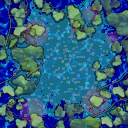
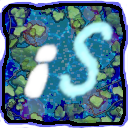
new up
"very brutal" menu

diff --git a/noname/index.html b/noname/index.html
@@ -6,34 +6,34 @@
 <style>
     body{
         background-image: url("Nopng.png");
-        color:rgb(0, 0, 0)
+        color:rgb(255, 255, 255)
         
     }
     .page{
-      background-color: #e2e2e2;
-      background-image: url("NININI.png");
+      
+     
             max-width: 720px;
          margin: 10 auto; /* Centers the container itself if needed */
-      border: 5px solid #b8a70f6e;
+      border: 10px solid #92340f;
       padding: 20px;
    }
    .page1{
-        background-color: #e2e2e2;
+       
             max-width: 400px;
-           background-image: url("NININI.png");
+         
             max-width: 720px;
          margin: 10 auto; /* Centers the container itself if needed */
-      border: 5px solid #b8a70f6e;
+      border: 10px solid #92340f;
             padding: 10px;
       
    }
     .page2{
-            background-color: #e2e2e2;
+            
             max-width: 400px;
-        background-image: url("NININI.png");
+      
             max-width: 720px;
          margin: 10 auto; /* Centers the container itself if needed */
-      border: 5px solid #b8a70f6e;
+      border: 10px solid #92340f;
             padding: 10px;
    }
 
@@ -55,6 +55,15 @@
         {
             color: #fdfdfd;
         }
+         menu {
+             
+            background-image: linear-gradient(rgba(255, 255, 255, 0.151), rgba(0, 0, 0, 0.425)),  url("lest.png");
+             border: 5px solid #92340f;
+          
+         }
+         li{
+              font-size: 1em;
+         }
         
      
 
@@ -118,6 +127,8 @@ function changeDirection(checkBox) {
 <body>
     <menu>
         <ul>
+           <li> <img src="../mest.png" alt=""></li>    
+            <li>ISTESTANI</li>
     <li><a href="../index.html">Главная страница</a> </li>
     <li> <a href="../nitw/index.html">Фердинанда альпиниста</a> </li>    
     <li> <a href="../ouroboros/index.html">Уроброс</a> </li>

diff --git a/index.html b/index.html
@@ -47,18 +47,31 @@ background: linear-gradient(0deg, rgba(26, 18, 74, 1) 57%, rgba(72, 55, 179, 1) 
             /* max-height: 100%; */
         }
         a:visited {
-            color: rgb(35, 36, 17); 
+            color: rgb(255, 255, 255); 
+      
         }
         /* footer {
             height: 10em;
         } */
+         menu {
+             
+            background-image: linear-gradient(rgba(255, 255, 255, 0.151), rgba(0, 0, 0, 0.425)),  url("lest.png");
+             border: 5px solid #272e86;
+          
+         }
+         li{
+              font-size: 1em;
+         }
       
     </style>
     <link rel="stylesheet" href="style.css">
 </head>
 <body>
     <menu>
-        <ul>           
+
+        <ul>       
+            <li> <img src="mest.png" alt=""></li>    
+            <li>ISTESTANI</li>
             <li><a href="index.html">Главная страница</a></li>
             <li><a href="nitw/index.html">Фердинанда альпиниста</a></li>    
             <li><a href="ouroboros/index.html">Уроброс</a></li>
@@ -66,8 +79,7 @@ background: linear-gradient(0deg, rgba(26, 18, 74, 1) 57%, rgba(72, 55, 179, 1) 
         </ul>        
     </menu>
     <div class="page">
-        <img src=".//istestani.png" alt="">
-
+     
     <h1>Добро пожаловать на сайт!</h1>
     <p>Здесь вы ничего не узнаете.Вы тут не найдёте никакой полезной информации для вашей жизни.Тут будут пока безполезные факты,чтобы не оставлять страницы пустыми.</p>
     <img src="" alt="">

diff --git a/ouroboros/index.html b/ouroboros/index.html
@@ -34,6 +34,15 @@
         a:visited{
              color: rgb(58, 59, 24); 
         }
+         menu {
+             
+            background-image: linear-gradient(rgba(255, 255, 255, 0.151), rgba(0, 0, 0, 0.425)),  url("lest.png");
+             border: 5px solid #918945;
+          
+         }
+         li{
+              font-size: 1em;
+         }
       
     </style>
     <link rel="stylesheet" href="../style.css">
@@ -41,6 +50,8 @@
 <body>
     <menu>
  <ul>
+    <li> <img src="../mest.png" alt=""></li>    
+            <li>ISTESTANI</li>
     <li><a href="../index.html">Главная страница</a></li>
     <li><a href="../nitw/index.html">Фердинанда альпиниста</a></li>    
     <li><a href="../ouroboros/index.html">Уроброс</a></li>

diff --git a/nitw/index.html b/nitw/index.html
@@ -40,6 +40,15 @@
         footer {
             min-height: 10em;
         }
+         menu {
+             
+            background-image: linear-gradient(rgba(255, 255, 255, 0.151), rgba(0, 0, 0, 0.425)),  url("lest.png");
+             border: 5px solid #0d092e;
+          
+         }
+         li{
+              font-size: 1em;
+         }
 
         
     </style>
@@ -48,6 +57,8 @@
 <body>
     <menu>
         <ul>
+             <li> <img src="../mest.png" alt=""></li>    
+            <li>ISTESTANI</li>
     <li><a href="../index.html">Главная страница</a> </li>
     <li> <a href="../nitw/index.html">Фердинанда альпиниста</a> </li>    
     <li> <a href="../ouroboros/index.html">Уроброс</a> </li>

diff --git a/NuMed/Untitled-1.html b/NuMed/Untitled-1.html
@@ -53,14 +53,7 @@
     <link rel="stylesheet" href="../style.css">
 </head>
 <body>
-    <menu>
-        <ul>
-    <li><a href="../index.html">Главная страница</a> </li>
-    <li> <a href="../nitw/index.html">Фердинанда альпиниста</a> </li>    
-    <li> <a href="../ouroboros/index.html">Уроброс</a> </li>
-    <li><a href="../noname/index.html">Неизвестно</a> </li>
-</ul>      
-</menu>
+
     
     <div class="page">
       
